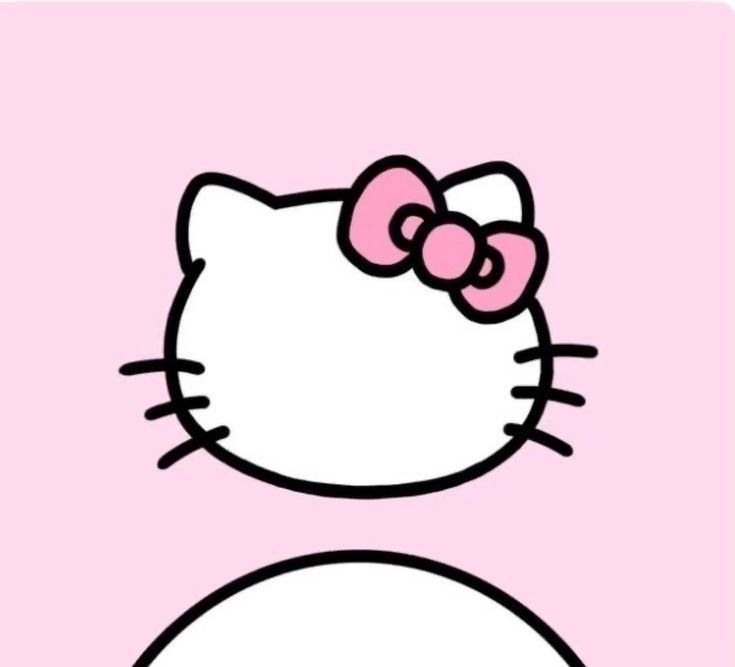
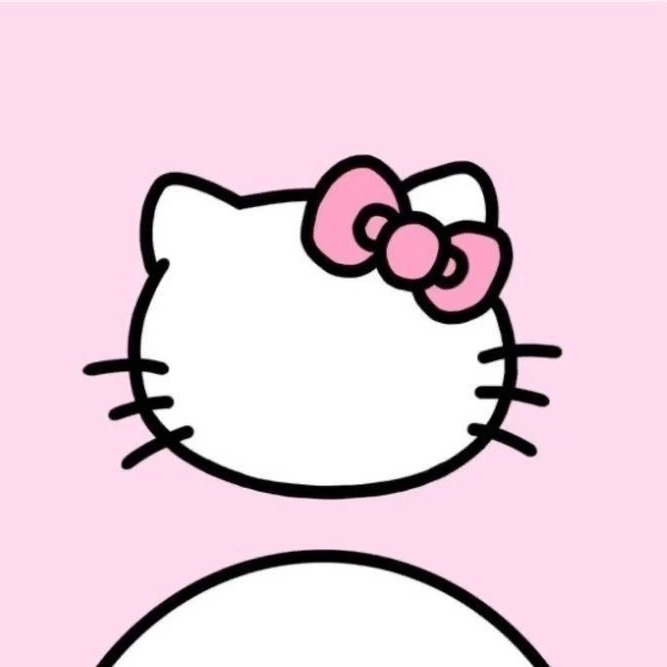
images
enfaite la il y a encore un probleme avec la taille de limage python dcp je lai changé aussi la pdp hk, et il y avait aussi un porbleme avec des svg dcp je les ai changées en png

diff --git a/index.html b/index.html
@@ -64,13 +64,13 @@
             alt="logo-css"
           />
           <img
-            src="./assets/js-logo.svg"
+            src="./assets/js-logo.png"
             class="logo-js"
             id="logo-js"
             alt="logo-js"
           />
           <img
-            src="./assets/PHP-logo.svg"
+            src="./assets/PHP-logo.png"
             class="logo-php"
             id="logo-php"
             alt="logo-php"
@@ -82,13 +82,13 @@
             alt="logo-sql"
           />
           <img
-            src="./assets/Python-logo-notext.svg"
+            src="./assets/python-logo.png"
             class="logo-python"
             id="logo-python"
             alt="logo-python"
           />
           <img
-            src="./assets/Logo_C_sharp.svg"
+            src="./assets/Logo_C_sharp.png"
             class="logo-csharp"
             id="logo-csharp"
             alt="logo-csharp"
